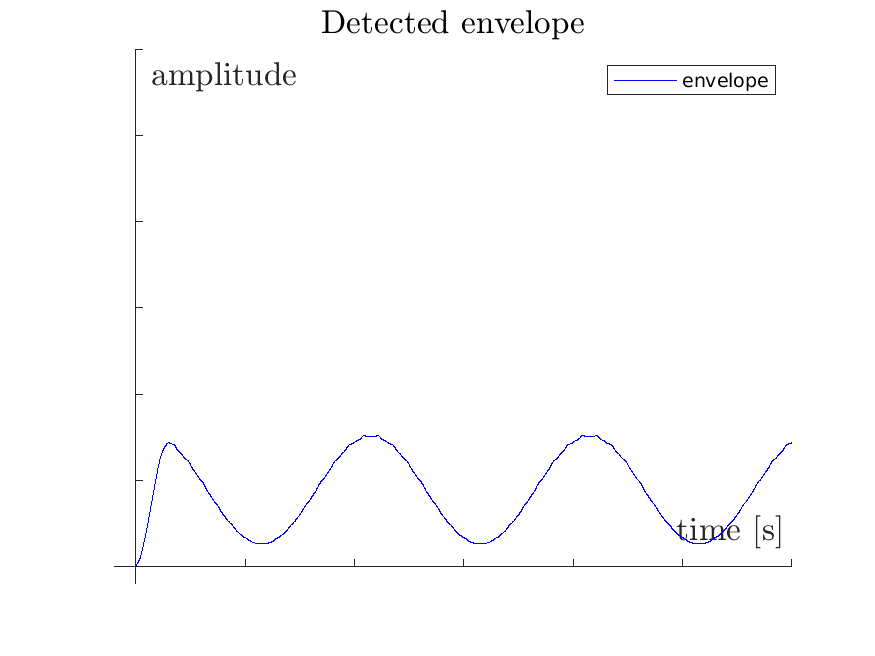
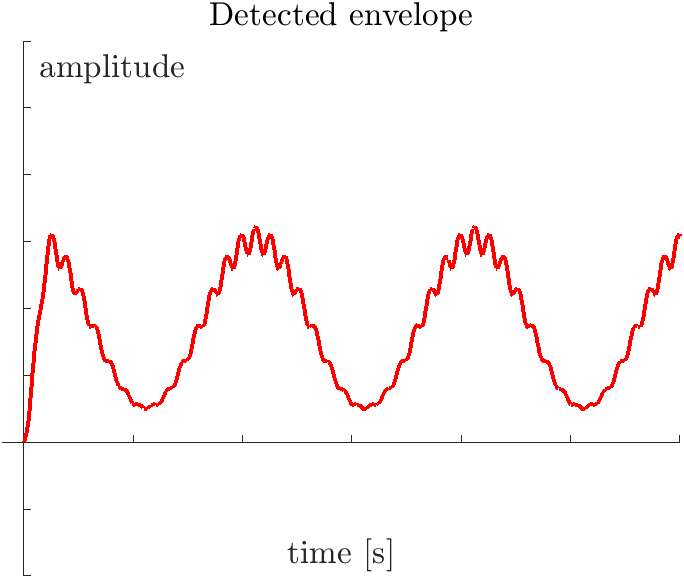
done plot

diff --git a/doc/thesis/img/matlab/envelope_detect.m b/doc/thesis/img/matlab/envelope_detect.m
@@ -51,7 +51,7 @@ rf_signal_thresh(rf_signal_thresh<0) = 0; % threshold
 %% Filter (lowpass)
 
 % Create filter
-Nfilt = 150;
+Nfilt = 116;
 wcut = 2*fmsg/fs;
 filter_lp = fir1(Nfilt, wcut);
 if EnableFilterAnalyzeGUI
@@ -59,7 +59,7 @@ if EnableFilterAnalyzeGUI
 end
 
 % Filter
-envelope = filter(filter_lp,1, rf_signal_thresh);
+envelope = filter(filter_lp,1, rf_signal_thresh) * 2;
 
 %=========================================================================
 %% Compensate filter delay
@@ -80,59 +80,30 @@ fig_title = 'RF signal';
 fig_time_rf = figure('Name',fig_title);
 hold on;
 plot(tn/fs, msg,       'r--', 'LineWidth',2, 'DisplayName', 'msg');
-plot(tn/fs, rf_signal, 'b', 'LineWidth',1, 'DisplayName', 'rf\_signal');
-%grid on;
+plot(tn/fs, rf_signal, 'b',   'LineWidth',1, 'DisplayName', 'rf\_signal');
 xlim([-0.1/fmsg,3/fmsg]);
 ylim([-3,3]);
-ax = gca;
-ax.XAxisLocation = 'origin';
-ax.YAxisLocation = 'origin';
-%box on;
-title(fig_title, 'FontSize',fontsize);
-xlabel('time [s]','FontSize',fontsize);
-ylabel('amplitude','FontSize',fontsize);
-set(gca,'XTickLabel',[],'YTickLabel',[])
-legend();
-saveas(fig_time_rf, sprintf("%s/%s",dir_output, "fig_time_rf.png"));
+fig_time_rf = format_plot(fig_time_rf,fig_title,fontsize);
+exportgraphics(fig_time_rf, sprintf("%s/%s",dir_output, "fig_time_rf.png"));
 
 fig_title = 'Half-wave rectified';
 fig_time_rf_thresh = figure('Name',fig_title);
 hold on;
-plot(tn/fs, rf_signal_thresh, 'b', 'DisplayName', 'rf\_signal\_thresh');
-%grid on;
-ax = gca;
-ax.XAxisLocation = 'origin';
-ax.YAxisLocation = 'origin';
+plot(tn/fs, msg,              'r--', 'LineWidth',2, 'DisplayName', 'msg');
+plot(tn/fs, rf_signal_thresh, 'b', 'LineWidth',1, 'DisplayName', 'rf\_signal\_thresh');
 xlim([-0.1/fmsg,3/fmsg]);
 ylim([-1,3]);
-title(fig_title, 'FontSize',fontsize);
-Ylm=ylim();                          % get x, y axis limits 
-Xlm=xlim();                          % so can position relative instead of absolute
-Xlb=mean(Xlm);                       % set horizontally at midpoint
-Ylb=0.99*Ylm(1);                     % and just 1% below minimum y value
-xlabel('time [s]','FontSize',fontsize, 'Position',[Xlb Ylb],'HorizontalAlignment','center');
-ylabel('amplitude','FontSize',fontsize);
-set(gca,'XTickLabel',[],'YTickLabel',[])
-%hXLbl=xlabel('XLabel',,'VerticalAlignment','top','HorizontalAlignment','center'); 
-legend();
-saveas(fig_time_rf_thresh, sprintf("%s/%s",dir_output, "fig_time_rf_thresh.png"));
+fig_time_rf_thresh = format_plot(fig_time_rf_thresh,fig_title,fontsize);
+exportgraphics(fig_time_rf_thresh, sprintf("%s/%s",dir_output, "fig_time_rf_thresh.png"));
 
 fig_title = 'Detected envelope';
 fig_time_envelope = figure('Name',fig_title);
 hold on;
-plot(tn/fs, envelope, 'b', 'DisplayName', 'envelope');
-%grid on;
-ax = gca;
-ax.XAxisLocation = 'origin';
-ax.YAxisLocation = 'origin';
+plot(tn/fs, envelope, 'r', 'LineWidth',2, 'DisplayName', 'envelope');
 xlim([-0.1/fmsg,3/fmsg]);
-ylim([-0.1,3]);
-title(fig_title, 'FontSize',fontsize);
-xlabel('time [s]','FontSize',fontsize);
-ylabel('amplitude','FontSize',fontsize);
-set(gca,'XTickLabel',[],'YTickLabel',[])
-legend();
-saveas(fig_time_envelope, sprintf("%s/%s",dir_output, "fig_time_envelope.png"));
+ylim([-1,3]);
+fig_time_envelope = format_plot(fig_time_envelope,fig_title,fontsize);
+exportgraphics(fig_time_envelope, sprintf("%s/%s",dir_output, "fig_time_envelope.png"));
 
 
 %-------------------------------------------------------------------------

diff --git a/doc/thesis/img/matlab/format_plot.m b/doc/thesis/img/matlab/format_plot.m
@@ -1,24 +1,26 @@
 %-------------------------------------------------------------------------
-% File        : do_plot.m
+% File        : format_plot.m
 % Author      : Michael Wurm <wurm.michael95@gmail.com>
-% Description : Plot helper.
+% Description : Plot format helper.
 %-------------------------------------------------------------------------
 
-function [fig] = do_plot(fig)
+function [fig] = format_plot(fig,fig_title,fontsize)
 
 ax = gca;
 ax.XAxisLocation = 'origin';
 ax.YAxisLocation = 'origin';
-%box on;
+%box off;
+
+% get axis limits for label positions
+Ylm=ylim();
+Xlm=xlim();
+Xlb=mean(Xlm);
+Ylb=0.99*Ylm(1);
+
 title(fig_title, 'FontSize',fontsize);
-Ylm=ylim();                          % get x, y axis limits 
-Xlm=xlim();                          % so can position relative instead of absolute
-Xlb=mean(Xlm);                       % set horizontally at midpoint
-Ylb=0.99*Ylm(1);                     % and just 1% below minimum y value
 xlabel('time [s]','FontSize',fontsize, 'Position',[Xlb Ylb],'HorizontalAlignment','center');
 ylabel('amplitude','FontSize',fontsize);
 set(gca,'XTickLabel',[],'YTickLabel',[])
-legend();
-saveas(fig_time_rf, sprintf("%s/%s",dir_output, "fig_time_rf.png"));
+%legend();
 
 end
